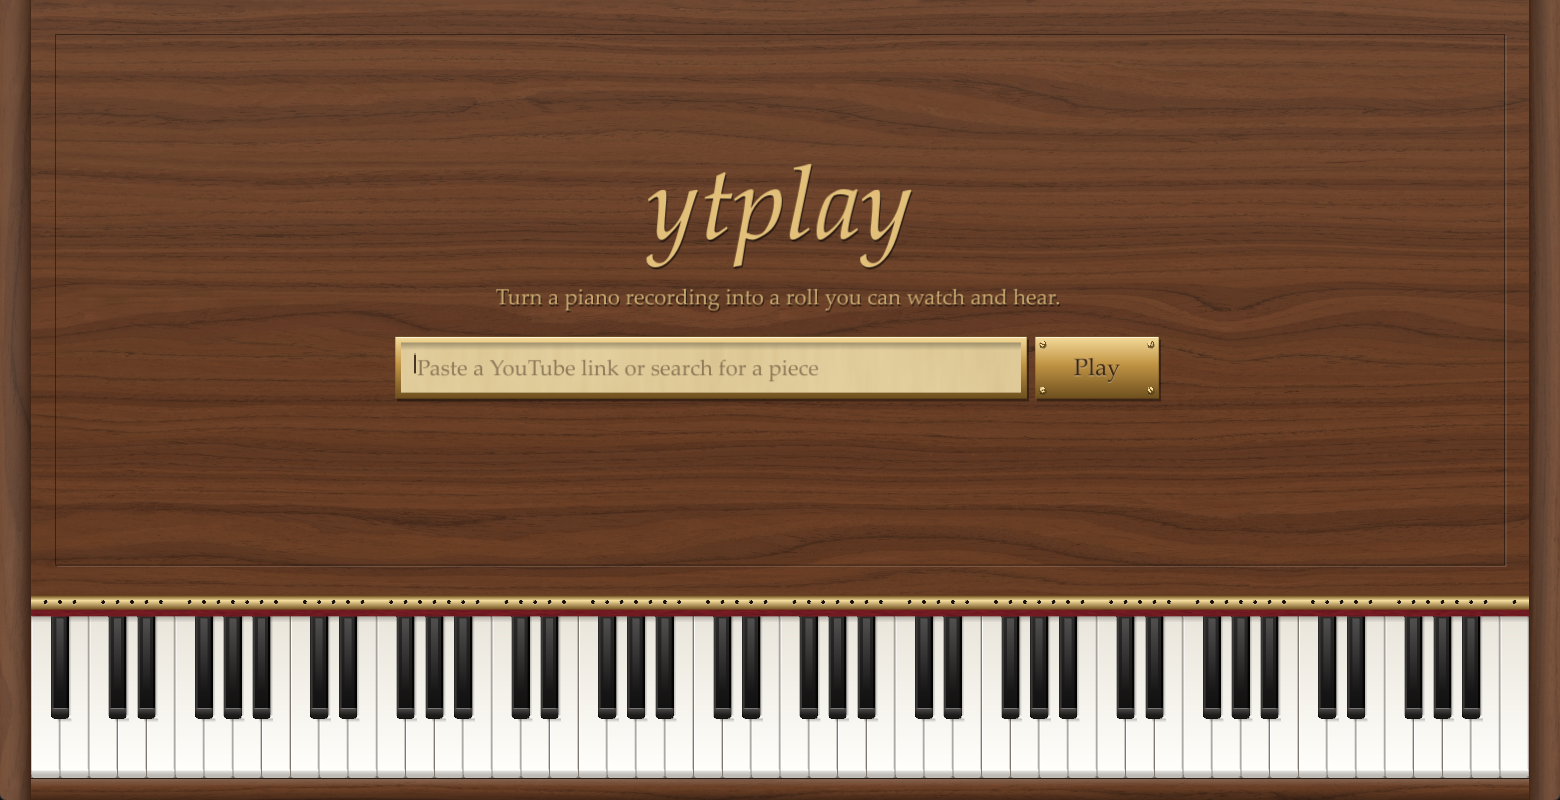
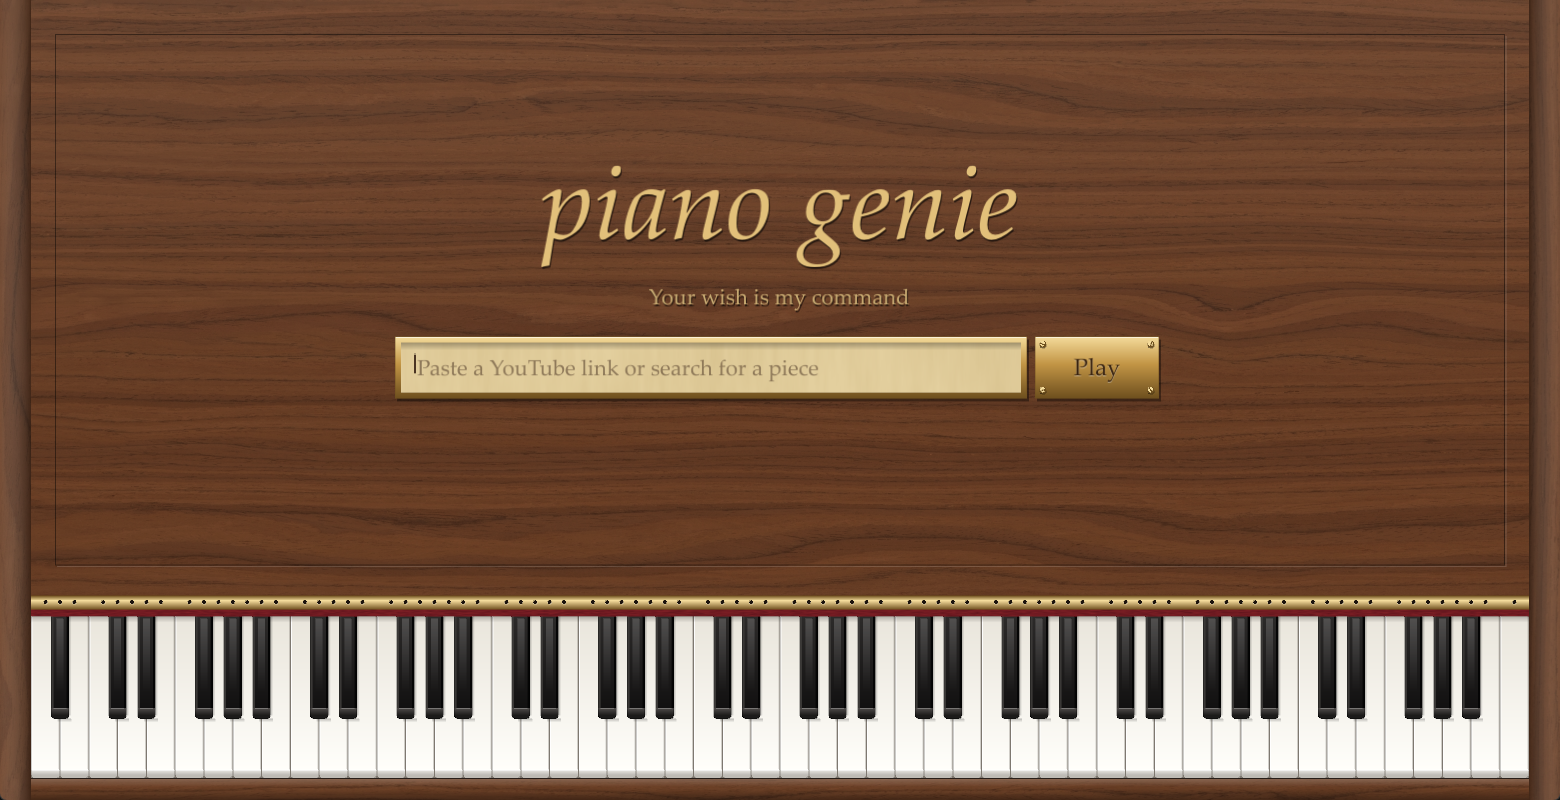
Rename to piano genie, add MIDI export, wrap long titles
- Rename the app to "piano genie": title screen, window title, roll
  leader, README, crate name, and the %USERPROFILE%\piano genie data folder.
- New tagline: "Your wish is my command".
- Export MIDI button on the playback screen saves the piece to Downloads.
- Long titles wrap on the loading screen, roll leader and error note,
  and shorten with an ellipsis in the top bar.

Changed region(s): [[0.3077, 0.1875, 0.6769, 0.4062]]

diff --git a/src/main.rs b/src/main.rs
@@ -15,11 +15,11 @@ const SF2_NAME: &str = "soundfont.sf2";
 
 struct Note { start: f32, end: f32, key: u8 }
 
-/// %USERPROFILE%\ytplay holds the soundfont and the download/MIDI cache, so the exe can live anywhere.
+/// %USERPROFILE%\piano genie holds the soundfont and the download/MIDI cache, so the exe can live anywhere.
 /// Not AppData: packaged apps (Store Python running transkun, MSIX launchers) get AppData writes
 /// silently redirected into their private package folder, where this exe can't see them.
 fn data_dir() -> PathBuf {
-    std::env::var_os("USERPROFILE").map(PathBuf::from).unwrap_or_default().join("ytplay")
+    std::env::var_os("USERPROFILE").map(PathBuf::from).unwrap_or_default().join("piano genie")
 }
 
 fn run(cmd: &mut Command) -> Result<String> {
@@ -63,9 +63,9 @@ fn transcribe(query: &str, status: &Mutex<String>) -> Result<(String, Vec<u8>)> 
     if !midi.exists() {
         // python -m: pip's Scripts dir often isn't on PATH. GPU path needs a CUDA build of torch.
         let transkun = |device: &str| run(Command::new("python").args(["-m", "transkun.transcribe", "--device", device]).arg(&audio).arg(&midi));
-        set(&format!("Transcribing \"{title}\" on GPU..."));
+        set(&format!("Transcribing on GPU: {title}"));
         if transkun("cuda").is_err() {
-            set(&format!("GPU failed, transcribing \"{title}\" on CPU (slow)..."));
+            set(&format!("GPU failed, transcribing on CPU (slow): {title}"));
             transkun("cpu")?;
         }
     }
@@ -351,6 +351,31 @@ fn gilt(font: &Option<Font>, s: &str, x: f32, y: f32, size: u16, color: Color) {
 
 fn text_width(font: &Option<Font>, s: &str, size: u16) -> f32 { measure_text(s, font.as_ref(), size, 1.0).width }
 
+/// Breaks `s` into lines no wider than `max_w` as measured by `width`, between words.
+/// A single word longer than a line keeps its own line.
+fn wrap(s: &str, max_w: f32, width: impl Fn(&str) -> f32) -> Vec<String> {
+    let mut lines = Vec::new();
+    let mut line = String::new();
+    for word in s.split_whitespace() {
+        let joined = if line.is_empty() { word.to_string() } else { format!("{line} {word}") };
+        if !line.is_empty() && width(&joined) > max_w {
+            lines.push(std::mem::replace(&mut line, word.to_string()));
+        } else {
+            line = joined;
+        }
+    }
+    if !line.is_empty() { lines.push(line); }
+    lines
+}
+
+/// `s` shortened with an ellipsis so it fits in `max_w`.
+fn ellipsize(font: &Option<Font>, s: &str, size: u16, max_w: f32) -> String {
+    if text_width(font, s, size) <= max_w { return s.to_string(); }
+    let mut chars: Vec<char> = s.chars().collect();
+    while !chars.is_empty() && text_width(font, &format!("{}…", chars.iter().collect::<String>()), size) > max_w { chars.pop(); }
+    format!("{}…", chars.iter().collect::<String>().trim_end())
+}
+
 fn clock_str(t: f32) -> String { format!("{}:{:02}", (t.max(0.0) / 60.0) as u32, t.max(0.0) as u32 % 60) }
 
 /// Polished brass plate with a bevelled edge.
@@ -374,6 +399,24 @@ fn round_bottom(x: f32, bottom: f32, w: f32, r: f32, c: Color) {
             draw_triangle(vec2(cx, cy), vec2(cx + r * a0.cos(), cy + r * a0.sin()), vec2(cx + r * a1.cos(), cy + r * a1.sin()), c);
         }
     }
+}
+
+/// `title` as a Windows-safe file name: reserved characters become spaces, runs of spaces collapse.
+fn file_name(title: &str) -> String {
+    let cleaned: String = title.chars().map(|c| if c.is_control() || r#"<>:"/\|?*"#.contains(c) { ' ' } else { c }).collect();
+    let name = cleaned.split_whitespace().collect::<Vec<_>>().join(" ");
+    let name: String = name.trim_end_matches('.').chars().take(120).collect();
+    if name.is_empty() { "transcription".into() } else { name }
+}
+
+/// Writes the MIDI to Downloads as "<title>.mid" and returns where it went.
+// ponytail: assumes Downloads is %USERPROFILE%\Downloads; ask the shell's known-folder API if users relocate it.
+fn export_midi(title: &str, bytes: &[u8]) -> Result<PathBuf> {
+    let dir = std::env::var_os("USERPROFILE").map(PathBuf::from).context("USERPROFILE is not set")?.join("Downloads");
+    fs::create_dir_all(&dir)?;
+    let path = dir.join(format!("{}.mid", file_name(title)));
+    fs::write(&path, bytes).with_context(|| format!("couldn't write {}", path.display()))?;
+    Ok(path)
 }
 
 /// A screwed-on brass plate with its label stamped in. Returns true when clicked.
@@ -575,9 +618,13 @@ fn draw_roll(a: &Assets, l: &Layout, title: &str, notes: &[Note], t: f32) {
     // Leader: the title printed across the paper, then a ruled start line where the music begins.
     let ty = y_of(-LEAD / 2.0);
     if ty > wy && ty < l.bar_y + 60.0 {
-        text(&a.italic, title, (l.w - text_width(&a.italic, title, 40)) / 2.0, ty, 40, INK);
-        let sub = "transcribed by ytplay";
-        text(&a.roman, sub, (l.w - text_width(&a.roman, sub, 20)) / 2.0, ty + 34.0, 20, alpha(INK, 0.7));
+        let lines = wrap(title, l.w * 0.8, |t| text_width(&a.italic, t, 40));
+        for (i, line) in lines.iter().enumerate() {
+            text(&a.italic, line, (l.w - text_width(&a.italic, line, 40)) / 2.0, ty + i as f32 * 48.0, 40, INK);
+        }
+        let sub = "transcribed by piano genie";
+        let sy = ty + (lines.len().max(1) - 1) as f32 * 48.0 + 34.0;
+        text(&a.roman, sub, (l.w - text_width(&a.roman, sub, 20)) / 2.0, sy, 20, alpha(INK, 0.7));
     }
     let sy = y_of(0.0);
     if sy > wy && sy < l.bar_y { draw_line(l.w * 0.2, sy, l.w * 0.8, sy, 1.5, alpha(INK, 0.5)); }
@@ -635,6 +682,7 @@ async fn ui_loop() {
     let status = Arc::new(Mutex::new(String::new()));
     let (mut query, mut error, mut screen) = (String::new(), String::new(), Screen::Menu);
     let mut live: Option<LivePiano> = None; // opened on the first click on a key, closed when leaving the menu
+    let mut notice: Option<(String, f64)> = None; // export result shown under the top bar, with the time it appeared
     loop {
         let (w, h) = (screen_width(), screen_height());
         let l = layout(w, h);
@@ -652,9 +700,9 @@ async fn ui_loop() {
                 if let Some(k) = key { down[k as usize] = true; }
                 draw_idle(a, &l, &down);
                 let cy = l.bar_y * 0.40;
-                let mark = "ytplay";
+                let mark = "piano genie";
                 gilt(&a.italic, mark, (w - text_width(&a.italic, mark, 104)) / 2.0, cy, 104, GILT);
-                let tag = "Turn a piano recording into a roll you can watch and hear.";
+                let tag = "Your wish is my command";
                 gilt(&a.roman, tag, (w - text_width(&a.roman, tag, 22)) / 2.0, cy + 66.0, 22, GILT_SOFT);
 
                 // Paper slip in a brass frame for the query, a screwed-on brass plate for the action.
@@ -686,9 +734,10 @@ async fn ui_loop() {
                 }
                 // Errors arrive on a paper note tucked under the field.
                 let max_lines = ((l.bar_y - fy - fh - 70.0) / 22.0).max(0.0) as usize;
-                let lines: Vec<&str> = error.lines().take(max_lines).collect();
+                let nw = fw + gap + bw;
+                let lines: Vec<String> = error.lines().flat_map(|line| wrap(line, nw - 28.0, |t| text_width(&a.roman, t, 18))).take(max_lines).collect();
                 if !lines.is_empty() {
-                    let (nx, ny, nw) = (fx, fy + fh + rim + 24.0, fw + gap + bw);
+                    let (nx, ny) = (fx, fy + fh + rim + 24.0);
                     let nh = lines.len() as f32 * 22.0 + 20.0;
                     draw_rectangle(nx + 3.0, ny + 4.0, nw, nh, alpha(BLACK, 0.35));
                     tex(&a.paper, nx, ny, nw, nh, Rect::new(0.0, 0.0, 512.0, (nh / nw * 512.0).min(512.0)), false, WHITE);
@@ -700,9 +749,13 @@ async fn ui_loop() {
             Screen::Busy(rx) => {
                 draw_idle(a, &l, &[false; 128]);
                 let s = status.lock().unwrap().trim_end_matches('.').to_string();
-                let sw = text_width(&a.italic, &s, 34);
-                let cy = l.bar_y * 0.5;
-                gilt(&a.italic, &s, (w - sw) / 2.0, cy, 34, GILT);
+                let lines = wrap(&s, w - 2.0 * l.x0 - 160.0, |t| text_width(&a.italic, t, 34));
+                let first = l.bar_y * 0.5 - (lines.len().max(1) - 1) as f32 * 22.0;
+                for (i, line) in lines.iter().enumerate() {
+                    gilt(&a.italic, line, (w - text_width(&a.italic, line, 34)) / 2.0, first + i as f32 * 44.0, 34, GILT);
+                }
+                let cy = first + (lines.len().max(1) - 1) as f32 * 44.0;
+                let sw = lines.iter().map(|line| text_width(&a.italic, line, 34)).fold(0.0, f32::max);
                 // One slow brass sweep under the status: the only idle motion in the app.
                 let phase = (get_time() as f32 * 0.6).fract();
                 let lw = sw.max(200.0);
@@ -719,12 +772,32 @@ async fn ui_loop() {
             Screen::Play { title, bytes, notes, length, clock, rate, .. } => {
                 let t = clock.load(Ordering::Relaxed) as f32 / rate - LEAD;
                 draw_roll(a, &l, title, notes, t);
-                gilt(&a.italic, title, l.x0 + 6.0, 38.0, 26, GILT);
                 let time = format!("{} / {}", clock_str(t), clock_str(*length));
                 let tw = text_width(&a.roman, &time, 22);
                 gilt(&a.roman, &time, w - l.x0 - tw - 6.0, 37.0, 22, GILT);
+                let (bw, bh) = (172.0, 40.0);
+                let bx = w - l.x0 - tw - 28.0 - bw;
+                if brass_button(a, "Export MIDI", bx, (HEADER_H - bh) / 2.0 - 2.0, bw, bh) {
+                    let msg = match export_midi(title, bytes) {
+                        Ok(path) => format!("Saved to Downloads: {}", path.file_name().unwrap_or_default().to_string_lossy()),
+                        Err(e) => format!("Couldn't export the MIDI: {e:#}"),
+                    };
+                    notice = Some((msg, get_time()));
+                }
                 let hint = "Esc returns to search";
-                gilt(&a.roman, hint, w - l.x0 - tw - 34.0 - text_width(&a.roman, hint, 17), 36.0, 17, GILT_SOFT);
+                let hx = bx - 24.0 - text_width(&a.roman, hint, 17);
+                gilt(&a.roman, hint, hx, 36.0, 17, GILT_SOFT);
+                // The export result hangs under the top bar on a paper slip for a few seconds.
+                if let Some((msg, at)) = &notice {
+                    if get_time() - at < 4.0 {
+                        let mw = text_width(&a.roman, msg, 18) + 28.0;
+                        let (mx, my) = ((w - l.x0 - mw - 6.0).max(l.x0), HEADER_H + 10.0);
+                        draw_rectangle(mx + 2.0, my + 3.0, mw, 32.0, alpha(BLACK, 0.3));
+                        tex(&a.paper, mx, my, mw, 32.0, Rect::new(0.0, 0.0, 512.0, 40.0), false, WHITE);
+                        text(&a.roman, msg, mx + 14.0, my + 22.0, 18, INK);
+                    }
+                }
+                gilt(&a.italic, &ellipsize(&a.italic, title, 26, hx - l.x0 - 40.0), l.x0 + 6.0, 38.0, 26, GILT);
                 if t > *length + 1.5 { // last note released and its tail has rung out
                     let (pw, ph) = (480.0f32.min(w - 2.0 * l.x0 - 40.0), 200.0);
                     let (px, py) = ((w - pw) / 2.0, HEADER_H + (l.bar_y - HEADER_H - ph) / 2.0);
@@ -758,7 +831,7 @@ fn main() {
         medium: *include_bytes!(concat!(env!("OUT_DIR"), "/icon32.rgba")),
         big: *include_bytes!(concat!(env!("OUT_DIR"), "/icon64.rgba")),
     };
-    let conf = Conf { window_title: "ytplay".into(), window_width: 1560, window_height: 800, icon: Some(icon), ..Default::default() };
+    let conf = Conf { window_title: "piano genie".into(), window_width: 1560, window_height: 800, icon: Some(icon), ..Default::default() };
     macroquad::Window::from_config(conf, ui_loop());
 }
 
@@ -793,5 +866,18 @@ mod tests {
         assert_eq!(at(60, l.ww - 2.0, l.kb_y + 5.0), Some(61));     // right edge of C4 at the back is under C#4
         assert_eq!(at(60, l.ww - 2.0, l.kb_y + l.kb_h - 3.0), Some(60)); // same x at the front is C4
         assert_eq!(at(60, 2.0, l.bar_y - 5.0), None);               // above the keyboard
+
+        // Wrapping long titles, measuring one unit per character.
+        let chars = |t: &str| t.chars().count() as f32;
+        assert_eq!(wrap("There Will Never Be Another You", 12.0, chars), ["There Will", "Never Be", "Another You"]);
+        assert_eq!(wrap("short", 12.0, chars), ["short"]);
+        assert_eq!(wrap("a verylongwordhere b", 5.0, chars), ["a", "verylongwordhere", "b"]);
+        assert!(wrap("   ", 5.0, chars).is_empty());
+
+        // Export file names: Windows-reserved characters removed, never empty.
+        assert_eq!(file_name(r#""There Will Never Be Another You" - Jazz: Piano/Sheet?"#), "There Will Never Be Another You - Jazz Piano Sheet");
+        assert_eq!(file_name("Satie - Gymnopédie No. 1"), "Satie - Gymnopédie No. 1");
+        assert_eq!(file_name("???"), "transcription");
+        assert_eq!(file_name("ends with dots..."), "ends with dots");
     }
 }

diff --git a/README.md b/README.md
@@ -1,8 +1,8 @@
 <div align="center">
 
-<img src="icon.png" width="112" alt="ytplay icon: a gold eighth note on a walnut tile">
+<img src="icon.png" width="112" alt="piano genie icon: a gold eighth note on a walnut tile">
 
-# genie
+# piano genie
 
 **Your wish is my command**
 
@@ -19,7 +19,7 @@
 
 <br>
 
-Paste a YouTube link, or just type the name of a piece. ytplay downloads the audio, transcribes every note with a neural network, and plays the result back through a piano SoundFont while the notes scroll down a paper roll onto the keys.
+Paste a YouTube link, or just type the name of a piece. piano genie downloads the audio, transcribes every note with a neural network, and plays the result back through a piano SoundFont while the notes scroll down a paper roll onto the keys.
 
 ## Features
 
@@ -61,7 +61,7 @@ Transkun still imports `pkg_resources`, which newer `setuptools` releases remove
 
 **2. Add a SoundFont**
 
-Put a piano SoundFont at `%USERPROFILE%\ytplay\soundfont.sf2`. The free [Salamander Grand Piano](https://freepats.zenvoid.org/Piano/acoustic-grand-piano.html) is a good choice.
+Put a piano SoundFont at `%USERPROFILE%\piano genie\soundfont.sf2`. The free [Salamander Grand Piano](https://freepats.zenvoid.org/Piano/acoustic-grand-piano.html) is a good choice.
 
 **3. Build and run**
 
@@ -69,7 +69,7 @@ Put a piano SoundFont at `%USERPROFILE%\ytplay\soundfont.sf2`. The free [Salaman
 cargo build --release
 ```
 
-The app is `target\release\ytplay.exe`. Copy it anywhere you like.
+The app is `target\release\piano-genie.exe`. Copy it anywhere you like.
 
 ### GPU transcription
 
@@ -79,7 +79,7 @@ With an NVIDIA GPU, install the CUDA build of PyTorch so Transkun runs on the GP
 pip install --force-reinstall torch torchaudio --index-url https://download.pytorch.org/whl/cu130
 ```
 
-Without it, ytplay transcribes on the CPU automatically.
+Without it, piano genie transcribes on the CPU automatically.
 
 ## Controls
 
@@ -100,10 +100,10 @@ flowchart LR
     C -- macroquad --> E["Piano roll"]
 ```
 
-The audio thread is the clock: the roll is drawn from the number of samples sent to the speakers, so picture and sound can't drift apart. Everything ytplay keeps lives in `%USERPROFILE%\ytplay`:
+The audio thread is the clock: the roll is drawn from the number of samples sent to the speakers, so picture and sound can't drift apart. Everything piano genie keeps lives in `%USERPROFILE%\piano genie`:
 
 ```
-ytplay\
+piano genie\
 ├── soundfont.sf2       the piano sound
 └── cache\
     ├── <video id>.mp3  downloaded audio
